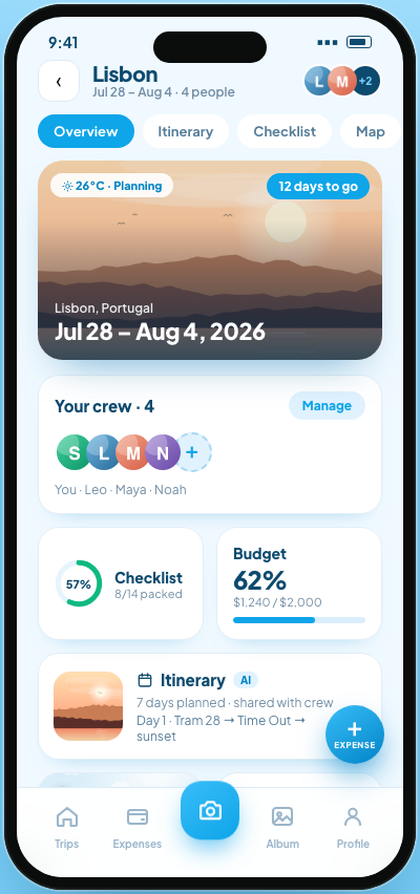
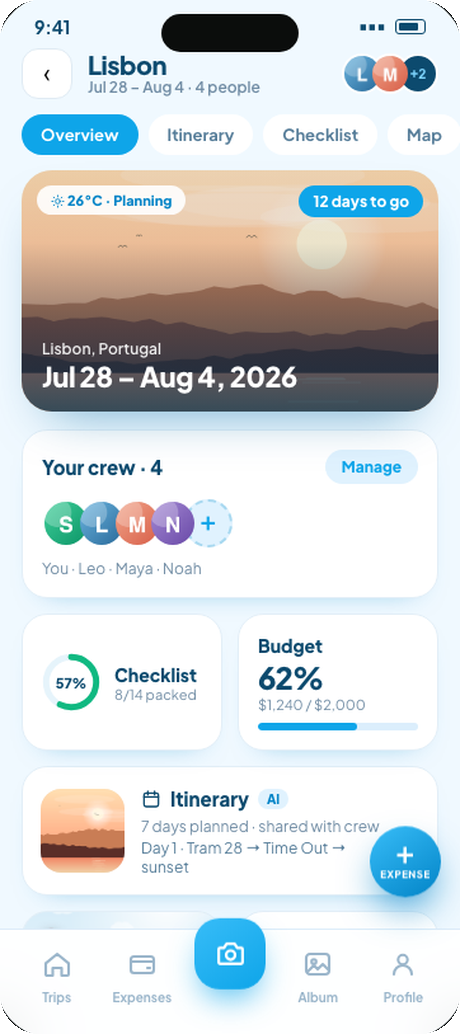
fix(voya): capture the app screens without bezel or page background
The screens were cropped to the design comp's phone mockup, so each
PNG carried that bezel plus a slice of the comp's blue page ground.
The site then wrapped them in its own rounded frame, which read as a
device inside a device.

Recaptured to the app screen only: the crop now walks inward past the
bezel to the first non-dark pixel, insets a further 3px to shave the
last hairline, and writes an alpha-rounded corner mask so no bezel
arcs or blue slivers survive.

With the images already shaped, both frames that were drawn on top had
to go, or they would square the corners off again:
- .voya-device drops border-radius/overflow for a drop-shadow, which
  follows the alpha
- .sp-phone's 4px bezel ring is opted out per project via preRounded,
  so the homepage card matches

diff --git a/src/spectra-case.css b/src/spectra-case.css
@@ -86,15 +86,20 @@
 }
 .voya-metric-l { font-size: 0.85rem; color: var(--cs-soft); margin-top: 0.3rem; line-height: 1.45; }
 
+/* The PNGs are the app screen only — no device bezel, no page
+   background, and their corners are already transparent and rounded.
+   So no border-radius/overflow here: that would clip a second frame
+   around an image that is already shaped. The shadow is drawn from
+   the alpha instead, so it follows the rounded corners. */
 .voya-device {
   position: relative; display: block; padding: 0; border: none; background: none;
   width: 100%; max-width: 320px; cursor: zoom-in;
-  border-radius: 34px; overflow: hidden;
-  box-shadow: 0 30px 70px -26px rgba(3, 61, 92, 0.45);
+  filter: drop-shadow(0 26px 42px rgba(3, 61, 92, 0.30));
 }
 .voya-device img { width: 100%; display: block; }
 .voya-zoom {
-  position: absolute; right: 14px; bottom: 18px;
+  /* clear of the app's own tab bar at the foot of the screen */
+  position: absolute; right: 14px; bottom: 12%;
   width: 34px; height: 34px; border-radius: 50%;
   display: grid; place-items: center;
   background: rgba(6, 25, 38, 0.72); color: #7DD3FC;

diff --git a/src/spectra/SpWork.jsx b/src/spectra/SpWork.jsx
@@ -13,7 +13,13 @@ const Visual = ({ p }) =>
   p.shape === 'phone' ? (
     <>
       <div className="sp-card-wash" style={{ background: p.wash }} />
-      <img className="sp-phone" src={p.img} alt={`${p.title} interface`} loading="lazy" />
+      {/* pre-rounded screenshots opt out of the drawn-on bezel */}
+      <img
+        className={`sp-phone${p.preRounded ? ' sp-phone--flat' : ''}`}
+        src={p.img}
+        alt={`${p.title} interface`}
+        loading="lazy"
+      />
     </>
   ) : (
     <img className="sp-fill-img" src={p.img} alt={`${p.title} interface`} loading="lazy" />

diff --git a/src/data/projects.js b/src/data/projects.js
@@ -11,6 +11,8 @@ export const projects = [
     role: 'Product Designer & Developer',
     shape: 'phone',
     img: '/voya/trips.png',
+    // captured with transparent rounded corners, so it needs no drawn bezel
+    preRounded: true,
     wash: 'radial-gradient(95% 110% at 24% 0%, #7DD3FC, transparent 58%), linear-gradient(150deg, #0EA5E9, #075985)',
     desc: 'A trip planner for people who travel together — an AI wizard drafts the itinerary, packing list and budget in one pass, then the whole crew shares one live map, one album and one running tab.',
     impact: 'One shared sky',

diff --git a/src/spectra.css b/src/spectra.css
@@ -442,6 +442,13 @@ body:has(.sp-page) { background-color: var(--sp-paper); }
 }
 .sp-card:hover .sp-phone,
 .sp-feat:hover .sp-phone { transform: translate(-50%, calc(-50% - 9px)); }
+/* Screens captured with rounded, transparent corners: the drawn bezel
+   ring squares them off again, so shadow from the alpha instead. */
+.sp-phone--flat {
+  border-radius: 0;
+  box-shadow: none;
+  filter: drop-shadow(0 22px 38px rgba(14, 15, 19, 0.40));
+}
 
 .sp-card-body {
   padding: 20px 20px 24px; display: flex; flex-direction: column;
